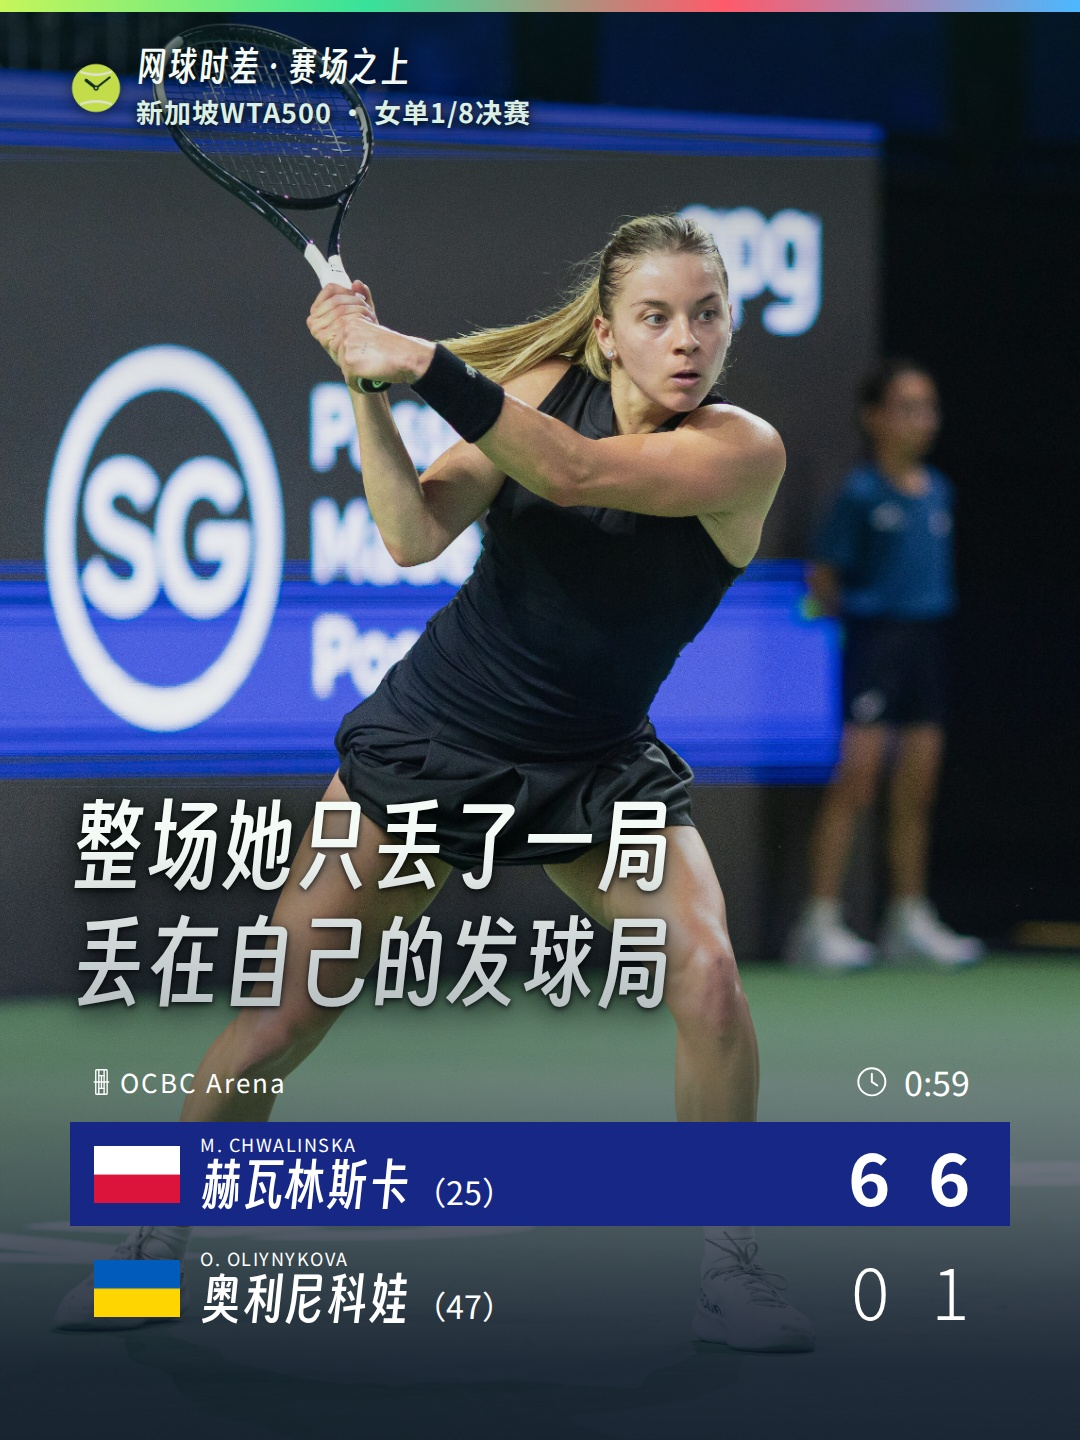
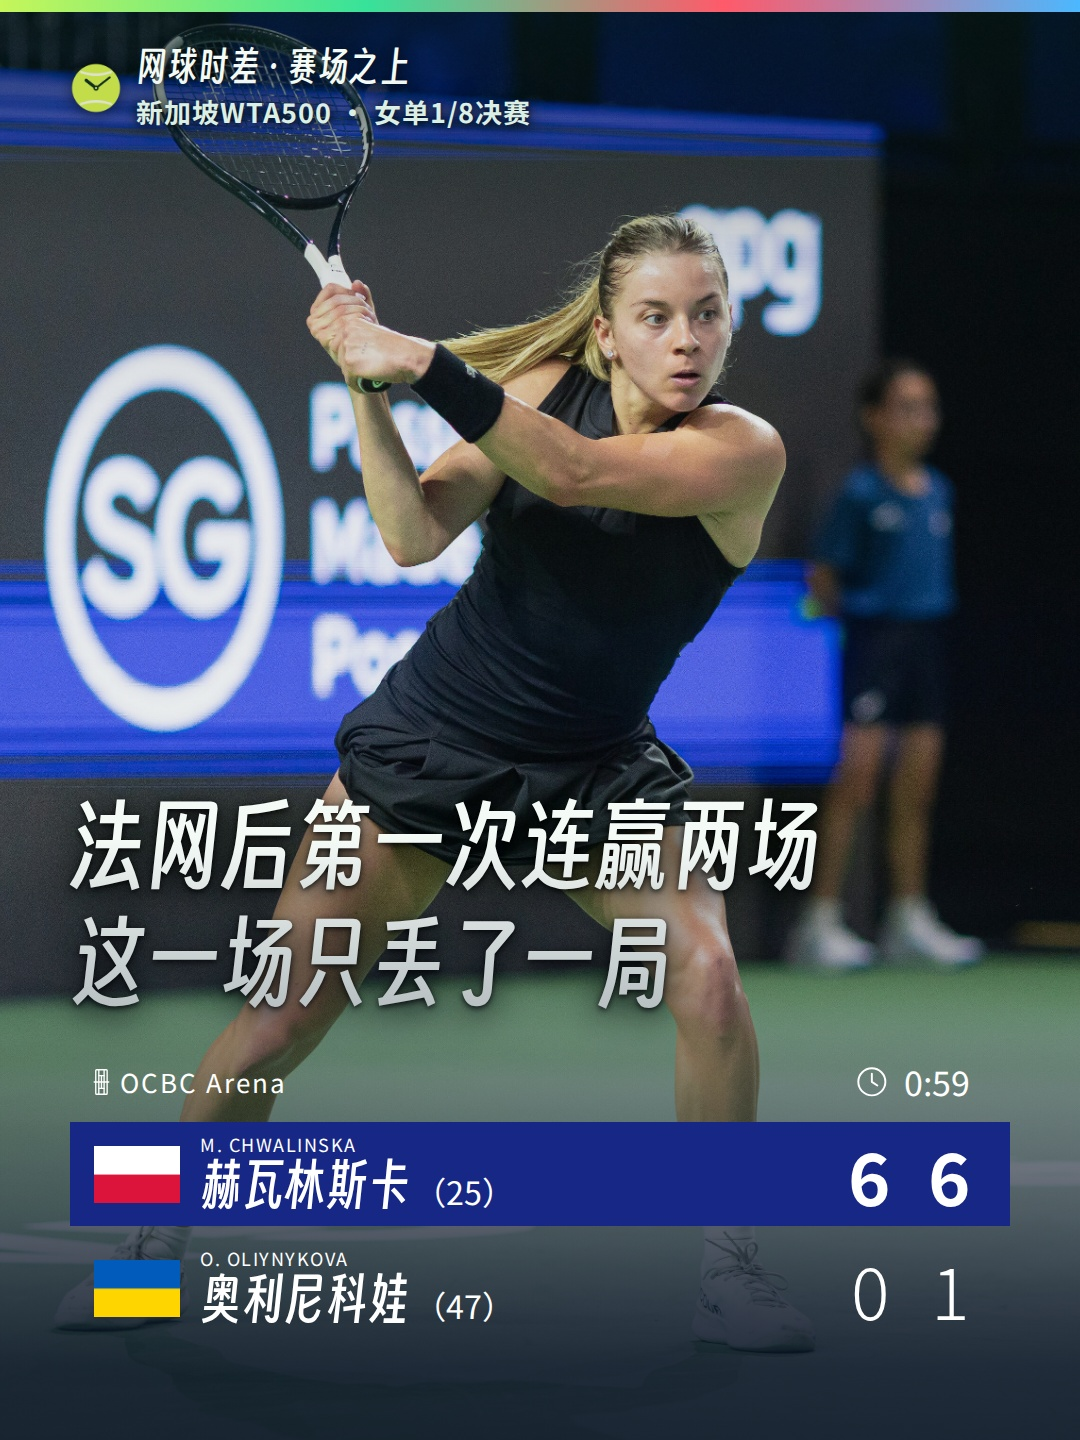
reel: render oliynykova-chwalinska-singapore-2026-r2

Changed region(s): [[0.0611, 0.5312, 0.7639, 0.7188]]

diff --git a/output/2026-09-23/reel/oliynykova-chwalinska-singapore-2026-r2/copy.html b/output/2026-09-23/reel/oliynykova-chwalinska-singapore-2026-r2/copy.html
@@ -42,11 +42,11 @@
     <p class="sub">标题和正文已分开，可直接粘贴到发布页。</p>
     <section>
       <div class="label"><span>标题</span><button type="button" data-copy="title">复制标题</button></div>
-      <textarea id="title" readonly>9.23 赛场之上 | 月亮姐一小时只丢一局</textarea>
+      <textarea id="title" readonly>9.23 赛场之上 | 月亮姐法网后首次两连胜</textarea>
     </section>
     <section>
       <div class="label"><span>正文</span><button type="button" data-copy="body">复制正文</button></div>
-      <textarea id="body" readonly>赫瓦林斯卡一个小时，只丢了一局🎾
+      <textarea id="body" readonly>赫瓦林斯卡法网之后，第一次连赢两场🎾
 
 北京时间9月23日下午，新加坡室内硬地，WTA500女单1/8决赛：5号种子、世界第25的赫瓦林斯卡 6-0、6-1 胜世界第47的奥利尼科娃，59分钟。
 
@@ -58,7 +58,7 @@
 
 这场球的账很简单：赫瓦林斯卡全场只有10个制胜分，非受迫失误只有7个；奥利尼科娃送了33个。她赢下的51分里，有33分来自对手的失误——她不抢着终结，把球一拍拍送回去，等对手先出错。
 
-这是她生涯第三次打进巡回赛八强，也是她第一次打亚洲赛季。下一轮对4号种子梅尔滕斯（克雷吉茨科娃退赛）。
+法网决赛之后，她温网、多伦多、蒙特雷、美网都是第一场就输，辛辛那提赢一场又输一场——新加坡这两场，是她三个多月来第一次连赢两场。这也是她生涯第三次打进巡回赛八强，还是她第一次打亚洲赛季。下一轮对4号种子梅尔滕斯（克雷吉茨科娃退赛）。
 
 法网决赛之后她一直没把状态接上，这一个小时，算不算接上了？
 
@@ -66,7 +66,7 @@
     </section>
     <section>
       <div class="label"><span>置顶评论</span><button type="button" data-copy="comment">复制评论</button></div>
-      <textarea id="comment" readonly>只丢一局的这一个小时，能让她把法网之后的那口气接上吗？</textarea>
+      <textarea id="comment" readonly>只丢一局的这一个小时，能让她把那口气接上吗？</textarea>
     </section>
   </main>
   <div id="toast" role="status">已复制</div>
